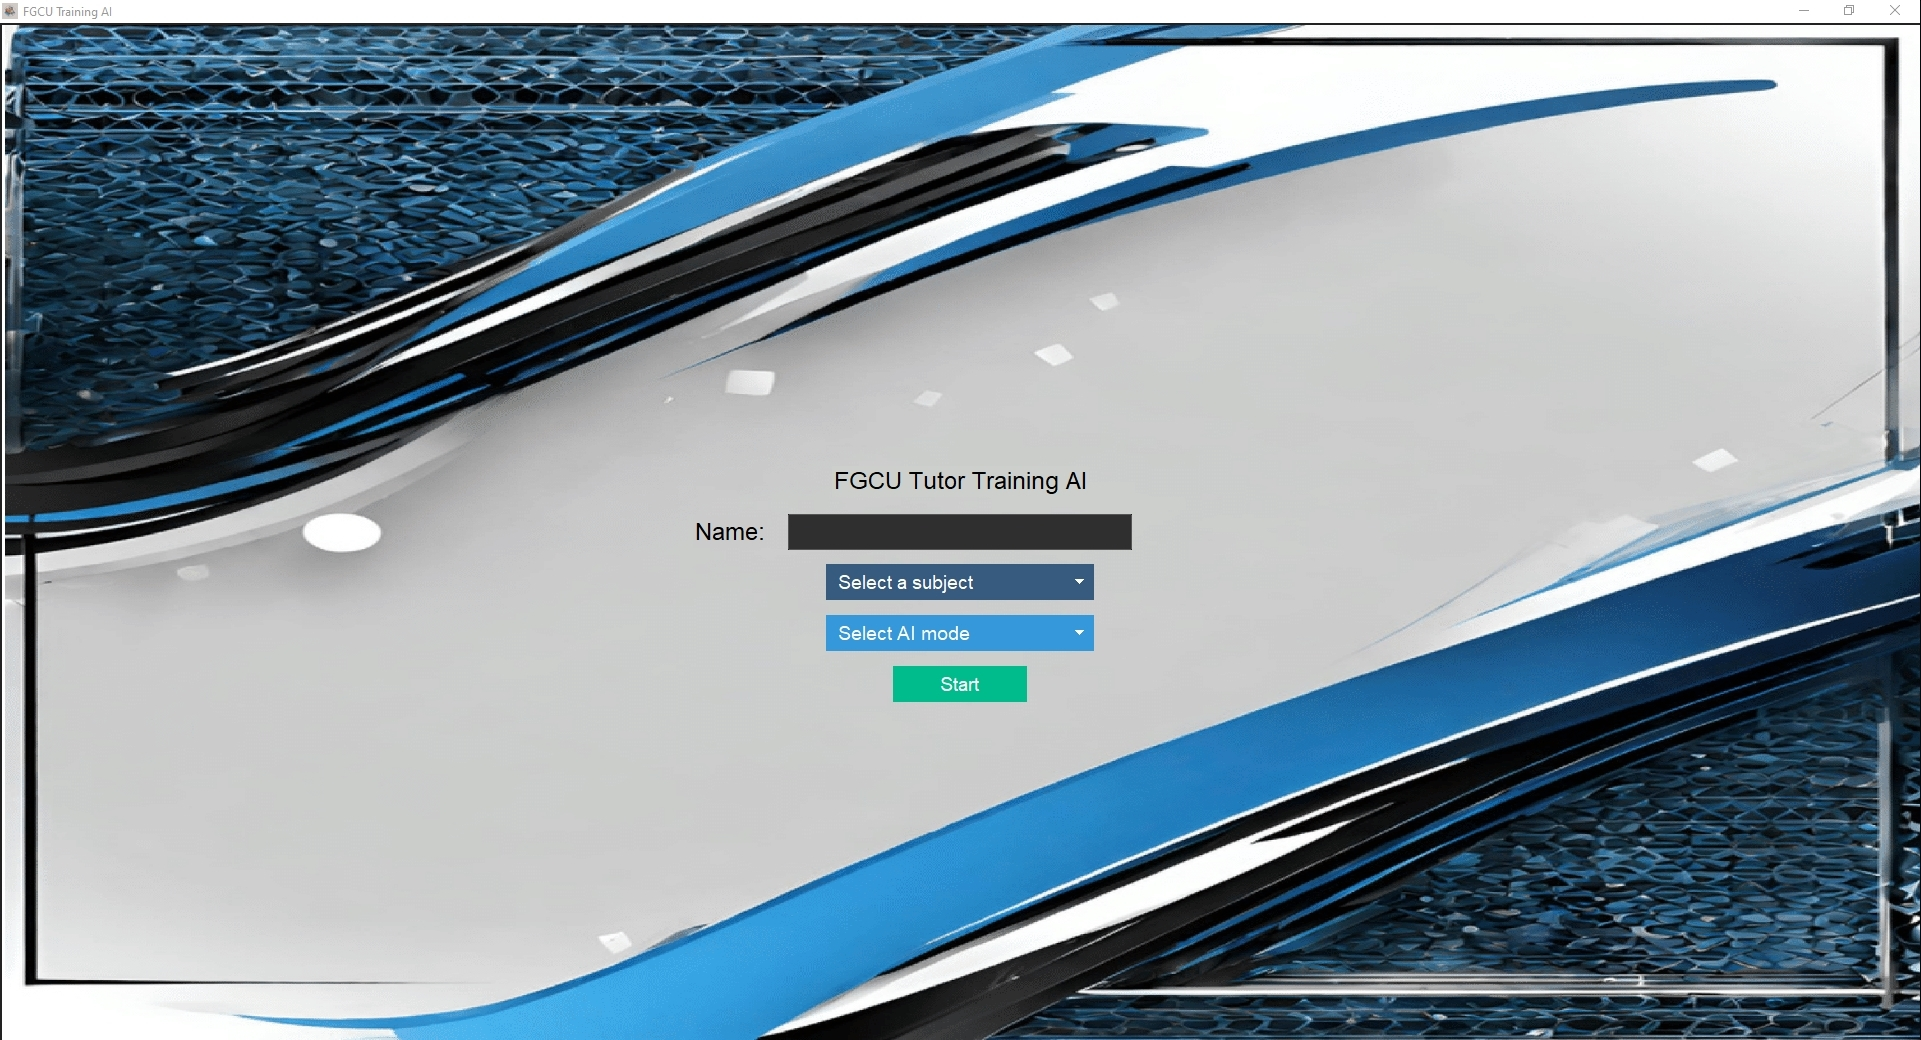
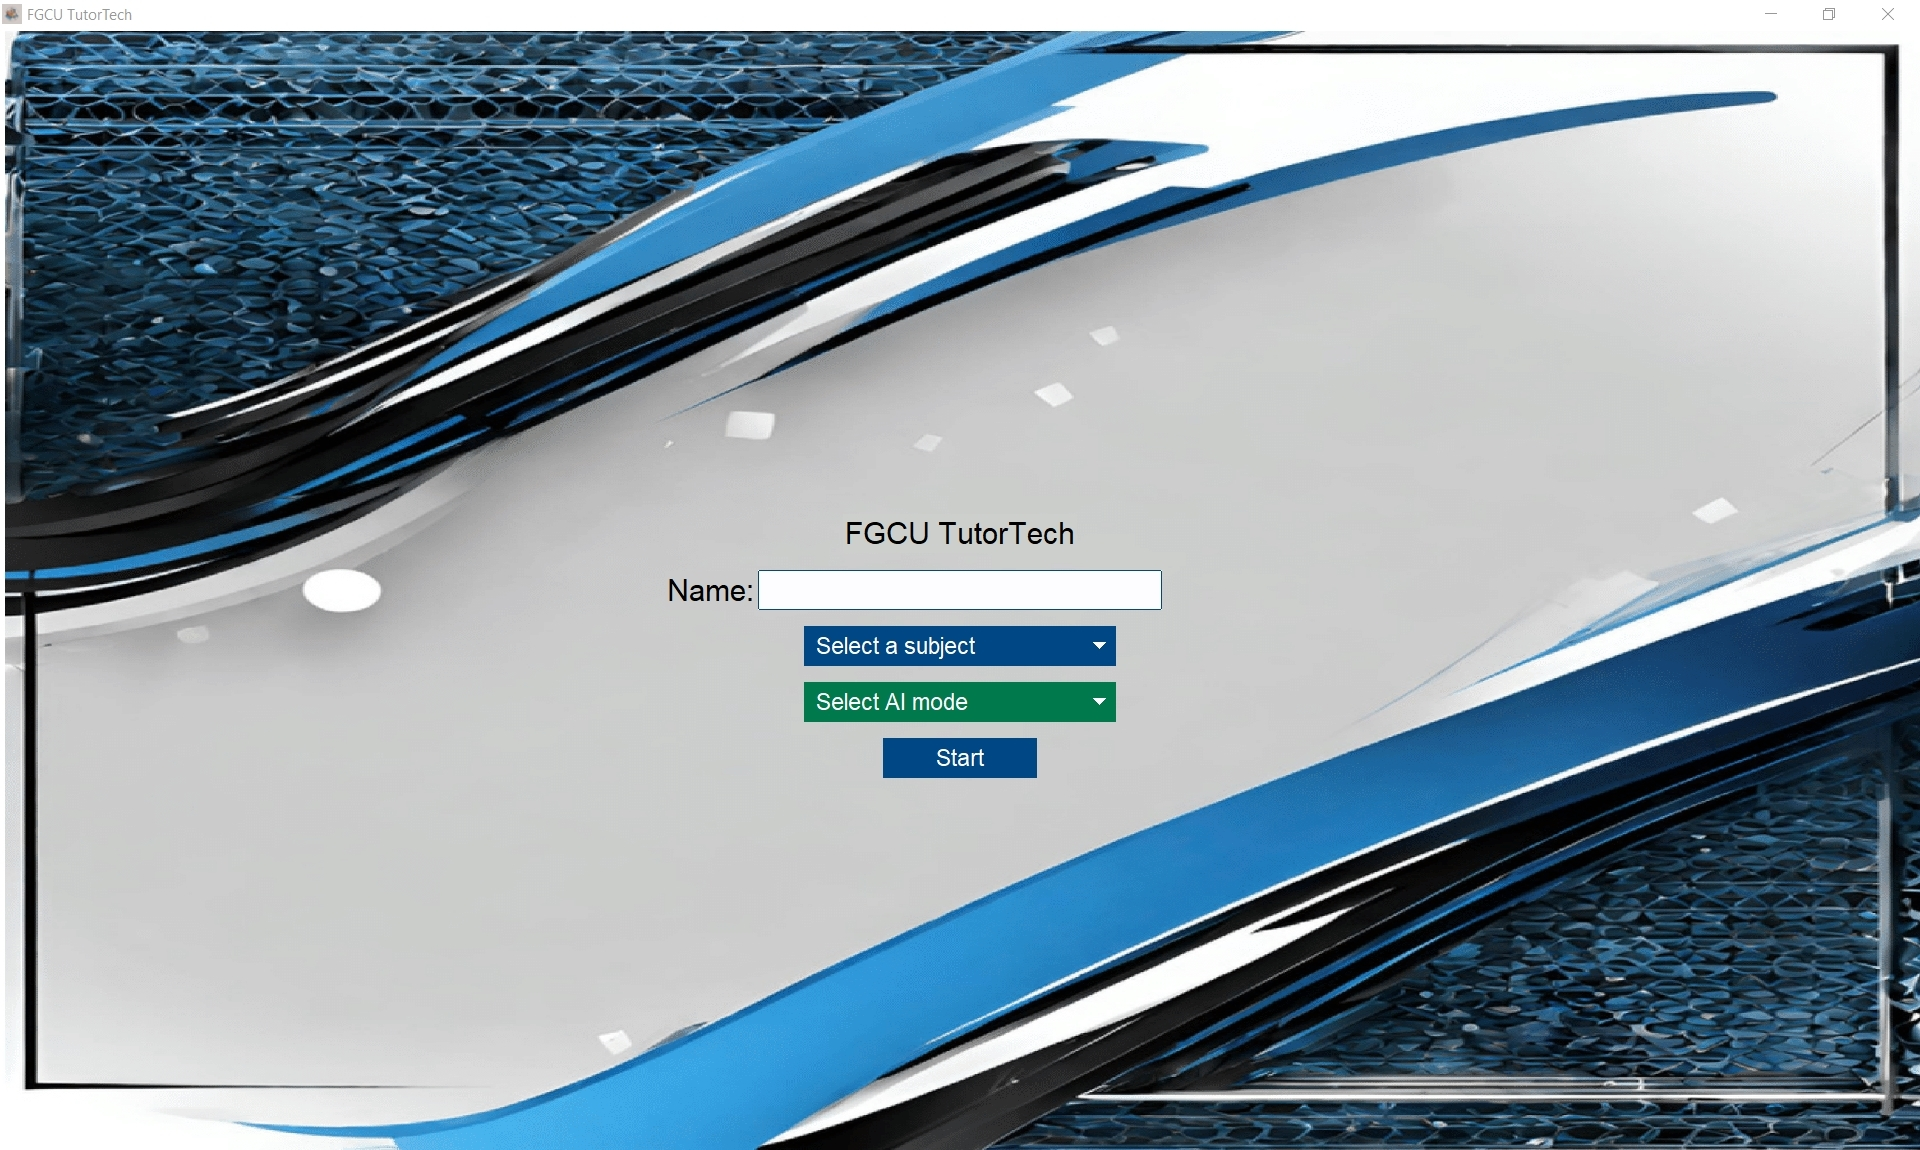
Updated README images, started implementing data analysis for CAA Staff

diff --git a/backend.py b/backend.py
@@ -1,7 +1,7 @@
 import boto3
 from boto3.dynamodb.conditions import Key
 from boto3.dynamodb.conditions import Attr
-
+from cryptography.fernet import Fernet
 from openai import OpenAI
 from dotenv import load_dotenv
 from docx import Document
@@ -10,6 +10,7 @@ import time
 import os
 import datetime
 import random
+import matplotlib.pyplot as plt
 
 load_dotenv()
 
@@ -57,13 +58,28 @@ class Backend:
         self.dynamodb = boto3.resource('dynamodb', region_name='us-east-1')
         self.conversations_table = self.dynamodb.Table('Conversations')
         self.user_id_table = self.dynamodb.Table('User_ID')
-        # self.db_path = os.getenv("SQLITE_DB_PATH")  # Path to SQLite database file
+        self.caa_key = os.environ.get("KEY")
+        self.fernet = Fernet(self.caa_key)
+        self.diagram_directory = ''
         self.global_conversation_name = ''
         self.global_user_id = 0
         self.global_subject = ''
         self.global_mode = ''
+        self.global_username = ''
         self.thread_exists = False
         self.generate_conversation_mode = ''
+        # TODO self.conversations_by_username = {}
+        self.conversations_by_username = \
+            {'Zach': {'Generate Conversation': ['Math Generated Conversation 4', 'Math Generated Conversation 3',
+                                                'Math Generated Conversation 1', 'Math Generated Conversation 2'],
+                      'Tutee': ['Math Tutee Conversation 4', 'Math Tutee Conversation 3',
+                                'Math Tutee Conversation 1', 'Math Tutee Conversation 2'],
+                      'Tutor': ['Math Tutor Conversation 1']},
+             'Test': {'Generate Conversation': ['Math Generated Conversation 1'],
+                      'Tutee': ['Math Tutee Conversation 4', 'Math Tutee Conversation 3',
+                                'Math Tutee Conversation 1', 'Math Tutee Conversation 2'],
+                      'Tutor': ['Math Tutor Conversation 1']
+                      }}
         self.tutee_assistant_ids = {
             'Writing': 'asst_xqPTYqajw69DTFS2yidhYVBJ',
             'Chemistry': 'asst_M2fmEombFqQpmZHUmUBgkfVJ',
@@ -111,9 +127,11 @@ class Backend:
 
         for item in response['Items']:
             conversation_name = item['conversation_name']
-            if conversation_name and (conversation_name.startswith(
-                    f"{self.global_subject} {self.global_mode} Conversation ") or (conversation_name.startswith(
-                    f"{self.global_subject} Generated Conversation ")) and self.global_mode == 'Generate Conversation'):
+            if (conversation_name and
+                    (conversation_name.startswith(f"{self.global_subject} {self.global_mode} Conversation ") or
+                     (conversation_name.startswith(
+                    f"{self.global_subject} Generated Conversation "))
+                     and self.global_mode == 'Generate Conversation')):
                 conversation_number = int(conversation_name.split(" ")[-1])
                 max_conversation_number = max(max_conversation_number, conversation_number)
 
@@ -204,6 +222,9 @@ class Backend:
                 mode (str): Mode ('Tutee', 'Tutor', 'Generate Conversation').
         """
         self.global_mode = mode
+
+    def set_username(self, username):
+        self.global_username = username
 
     def check_if_thread_exists(self, user_id, conversation_name):
         """
@@ -357,6 +378,8 @@ class Backend:
                 conversations_by_mode[mode] = []
             conversations_by_mode[mode].append(conversation_name)
 
+        print("Conversations by mode: ", conversations_by_mode)
+
         return conversations_by_mode
 
     def retrieve_conversations_by_username(self, username):
@@ -372,20 +395,20 @@ class Backend:
         fe = "username <> :username"
         response = self.conversations_table.scan(FilterExpression=fe, ExpressionAttributeValues={":username": username})
 
-        conversations_by_username = {}
+        self.conversations_by_username = {}
         for item in response['Items']:
             username = item['username']
             mode = item['mode']
             conversation_name = item['conversation_name']
 
-            if username not in conversations_by_username:
-                conversations_by_username[username] = {}
-            if mode not in conversations_by_username[username]:
-                conversations_by_username[username][mode] = []
-            conversations_by_username[username][mode].append(conversation_name)
+            if username not in self.conversations_by_username:
+                self.conversations_by_username[username] = {}
+            if mode not in self.conversations_by_username[username]:
+                self.conversations_by_username[username][mode] = []
+            self.conversations_by_username[username][mode].append(conversation_name)
 
-        print(conversations_by_username)
-        return conversations_by_username
+        print("Conversations by username: ", self.conversations_by_username)
+        return self.conversations_by_username
 
     def retrieve_previous_conversation(self, user_id, conversation_name):
         """
@@ -448,6 +471,66 @@ class Backend:
             pdf.multi_cell(0, 10, formatted_conversation)
             pdf.output(os.path.join(path, f"{username} - {conversation_name}.pdf"))
         return
+
+    def encrypt_data(self, data):
+        return self.fernet.encrypt(data)
+
+    def decrypt_data(self, encrypted_data):
+        try:
+            print("Attempting to decrypt data...")
+            decrypted_data = self.fernet.decrypt(encrypted_data)
+            print("Data decrypted successfully.")
+            return decrypted_data
+        except Exception as e:
+            print("Error decrypting data:", str(e))
+            return None
+
+    def view_conversations_per_mode(self):
+        print("view data here")
+
+        modes = ["Generate Conversation", "Tutor", "Tutee"]
+        mode_counts = {mode: 0 for mode in modes}  # Initialize mode_counts with zeros
+        usernames = list(self.conversations_by_username.keys())
+        print("usernames: ", usernames)
+        for username in usernames:
+            for mode in modes:
+                # Check if the mode exists for the current user
+                if mode in self.conversations_by_username[username]:
+                    # If the mode exists, add its count to mode_counts
+                    mode_counts[mode] += len(self.conversations_by_username[username][mode])
+
+        # Plotting
+        plt.bar(list(mode_counts.keys()), list(mode_counts.values()), color='skyblue')
+        plt.xlabel('Mode')
+        plt.ylabel('Number of Conversations')
+        plt.title('Total Number of Conversations per Mode')
+        plt.xticks(rotation=45, ha='right')  # Rotate x-axis labels for better readability
+
+        plt.tight_layout()  # Adjust layout to prevent overlap of labels
+
+        # Create directory if it doesn't exist
+        self.diagram_directory = os.path.join(os.getcwd(), f"{self.global_username} Diagrams")
+        if not os.path.exists(self.diagram_directory):
+            os.makedirs(self.diagram_directory)
+
+        # Save the plot as an image file
+        plot_filename = os.path.join(self.diagram_directory, 'total_conversations_per_mode_plot.png')
+        plt.savefig(plot_filename)
+
+        # Encrypt the image file's contents
+        with open(plot_filename, 'rb') as file:
+            image_data = file.read()
+        encrypted_image_data = self.encrypt_data(image_data)
+
+        # Write the encrypted data to a file
+        encrypted_plot_filename = os.path.join(self.diagram_directory, 'total_conversations_per_mode_plot.enc')
+        with open(encrypted_plot_filename, 'wb') as file:
+            file.write(encrypted_image_data)
+
+        os.remove(plot_filename)
+
+        # Show the plot
+        plt.show()
 
     @staticmethod
     def format_conversation(conversation):

diff --git a/gui.py b/gui.py
@@ -1,4 +1,5 @@
 import os
+import io
 import ttkbootstrap as tb
 from tkinter import messagebox, simpledialog, filedialog
 from backend import Backend
@@ -9,6 +10,7 @@ import base64
 
 class StartFrame:
     """ Class representing the initial GUI frame for user input. """
+
     def __init__(self, parent, on_start):
         """
         Initialize the StartFrame object.
@@ -38,7 +40,7 @@ class StartFrame:
         self.background_label.place(x=0, y=0, relwidth=1, relheight=1)
 
         # Create a label for the name of the program text with the same background color
-        self.start_label = tb.Label(self.frame, text='FGCU Tutor Training AI', font=('Helvetica', 18),
+        self.start_label = tb.Label(self.frame, text='FGCU TutorTech', font=('Helvetica', 18),
                                     background='#cdcfcd', foreground='black')
         self.start_label.place(relx=0.5, rely=0.45, anchor=tb.CENTER)
 
@@ -172,6 +174,7 @@ class GUI:
         self.save_button = None
         self.delete_button = None
         self.start_conversation_button = None
+        self.view_data_analysis_button = None
         self.info_label = None
         self.conversation_text = None
         self.export_conversation_name = None
@@ -193,7 +196,7 @@ class GUI:
         self.previous_conversation_loaded = False
         self.previous_conversations_loaded = False
         self.started_conversation = False
-        self.root.title("FGCU Training AI")
+        self.root.title("FGCU TutorTech")
         self.root.iconbitmap('images/icon.ico')
         self.root.state('zoomed')
 
@@ -223,8 +226,9 @@ class GUI:
         self.backend.set_subject(subject)
         self.backend.set_mode(mode)
         print(first_name, subject, mode)
-        self.backend.check_username(first_name)
-        self.backend.create_conversation_name()  # initialize conversation name
+        # TODO self.backend.check_username(first_name)
+        self.backend.set_username(first_name)
+        # TODO self.backend.create_conversation_name()  # initialize conversation name
         if self.start_frame:
             self.start_frame.frame.pack_forget()  # Hide the start frame
         self.show_main_frame()
@@ -235,17 +239,17 @@ class GUI:
         self.main_frame.pack(expand=True, fill=tb.BOTH)
 
         # Create a new frame to hold the info_label and mode_menu
-        info_frame = tb.Frame(self.main_frame)
-        info_frame.pack(side=tb.TOP, fill=tb.X, pady=5, padx=5)
+        self.info_frame = tb.Frame(self.main_frame)
+        self.info_frame.pack(side=tb.TOP, fill=tb.X, pady=5, padx=5)
 
         # Create the info_label and pack it to the left side of the info_frame
-        self.info_label = tb.Label(info_frame, text=f'Name: {self.first_name}', font=('Helvetica', 12))
+        self.info_label = tb.Label(self.info_frame, text=f'Name: {self.first_name}', font=('Helvetica', 12))
         self.info_label.pack(side=tb.LEFT)
 
-        # Create the mode_menu and pack it to the right side of the info_frame
+        # Create the mode_menu and pack it to the right of the info label
         style = tb.Style()
         style.configure('TMenubutton', font=('Helvetica', 12), width=20)
-        self.mode_menu = tb.Menubutton(info_frame, text=f'{self.mode}', direction="below", style='secondary')
+        self.mode_menu = tb.Menubutton(self.info_frame, text=f'{self.mode}', direction="below", style='secondary')
         self.mode_menu.menu = tb.Menu(self.mode_menu, tearoff=False)
         self.mode_menu.configure(menu=self.mode_menu.menu)
         self.mode_menu.menu.configure(font=('Helvetica', 12))
@@ -253,6 +257,12 @@ class GUI:
         for mode in modes:
             self.mode_menu.menu.add_command(label=mode, command=lambda m=mode: self.change_mode(m))
         self.mode_menu.pack(side=tb.LEFT, padx=5)
+
+        if self.first_name == 'CAA Staff':
+            self.view_data_analysis_button = tb.Button(self.info_frame, text='View Data Analysis',
+                                                       command=self.view_data_analysis,
+                                                       style='secondary')
+            self.view_data_analysis_button.pack(side=tb.RIGHT, padx=5)
 
         # Create conversation display area
         self.conversation_frame = tb.Frame(self.main_frame, padding=(10, 10, 0, 10))
@@ -334,7 +344,7 @@ class GUI:
         self.export_button.pack(side=tb.RIGHT, anchor='se', padx=(10, 0), pady=5)
 
         # Load previous conversations into the TreeView
-        self.load_previous_conversations()
+        # TODO self.load_previous_conversations()
 
         # Bind the tree selection event to load the selected conversation
         self.tree.bind('<<TreeviewSelect>>', self.load_selected_conversation)
@@ -349,6 +359,58 @@ class GUI:
         self.main_frame.pack_forget()
         self.show_main_frame()
         self.backend.create_conversation_name()
+
+    def view_data_analysis(self):
+        # Call the method to generate the plot and save it
+        self.backend.view_conversations_per_mode()
+
+        # Create a new pop-up window
+        top = tb.Toplevel()
+        top.title("Data Analysis")
+        top.state('zoomed')
+
+        # Set minimum size for the window
+        top.minsize(640, 480)
+
+        # Load the encrypted plot image
+        encrypted_plot_image_path = os.path.join(os.getcwd(), f'{self.first_name} Diagrams',
+                                                 'total_conversations_per_mode_plot.enc')
+        if os.path.exists(encrypted_plot_image_path):
+            # Decrypt the image
+            with open(encrypted_plot_image_path, 'rb') as file:
+                encrypted_image_data = file.read()
+            decrypted_image_data = self.backend.decrypt_data(encrypted_image_data)
+
+            if decrypted_image_data:
+                try:
+                    # Load the decrypted image directly into memory
+                    image_stream = io.BytesIO(decrypted_image_data)
+                    plot_image = Image.open(image_stream)
+
+                    # Display the image using Tkinter
+                    plot_image_tk = ImageTk.PhotoImage(plot_image)
+                    label = tb.Label(top, image=plot_image_tk)
+                    label.image = plot_image_tk
+                    label.pack()
+                except Exception as e:
+                    # If an error occurs during image loading or decryption, show an error message
+                    error_label = tb.Label(top, text=f"Error: {str(e)}")
+                    print(str(e))
+                    error_label.pack()
+            else:
+                # If decryption fails, show an error message
+                error_label = tb.Label(top, text="Error: Failed to decrypt the image!")
+                error_label.pack()
+        else:
+            # If the encrypted plot image doesn't exist, show an error message
+            error_label = tb.Label(top, text="Error: Encrypted plot image not found!")
+            error_label.pack()
+
+        # Make the pop-up window modal (prevent interaction with other windows)
+        top.grab_set()
+
+        # Wait for the pop-up window to be closed before returning
+        top.wait_window()
 
     def start_conversation(self):
         """Start a new conversation."""
@@ -636,6 +698,7 @@ class GUI:
 
     def exit(self):
         """Exit the program and show the Start Frame"""
+        self.previous_conversations_loaded = False
         self.clear_conversation()
         self.show_start_frame()
 
